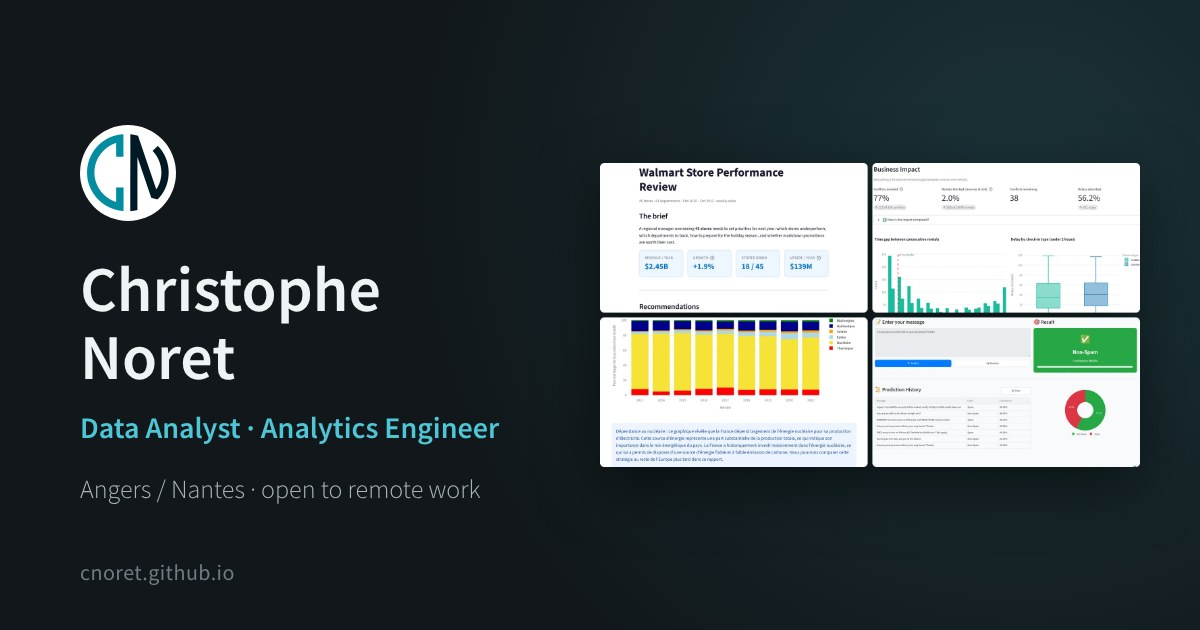
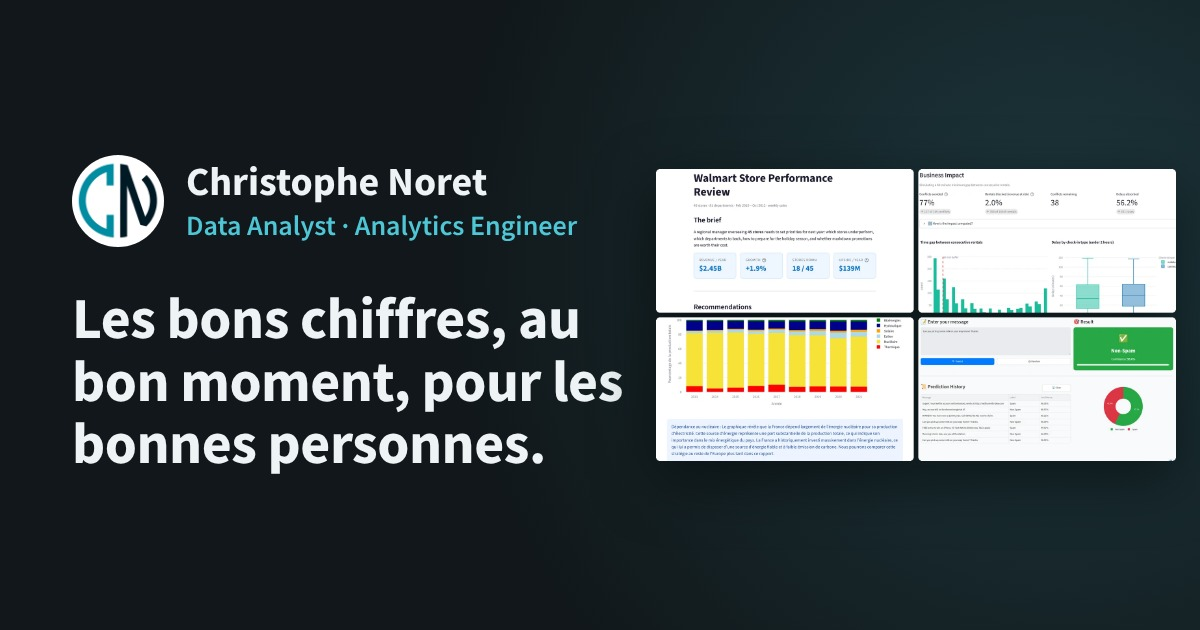
Legible French social preview for LinkedIn
- New 1200x630 card: name and role on one line, headline as the main message
  in large type so it survives LinkedIn downscaling and compression
- French share description and image alt text, og:locale fr_FR (en_US alternate)

Changed region(s): [[0.0617, 0.181, 0.9867, 0.7841], [0.0617, 0.9048, 0.185, 0.9349]]

diff --git a/index.html b/index.html
@@ -12,15 +12,17 @@
 		<meta name="description" data-i18n-content="meta.description" content="Christophe Noret, Data Analyst and Analytics Engineer based in Angers / Nantes, France. End-to-end data projects: KPIs, forecasting, dashboards." />
 		<!-- Open Graph / social previews -->
 		<meta property="og:type" content="website" />
+		<meta property="og:locale" content="fr_FR" />
+		<meta property="og:locale:alternate" content="en_US" />
 		<meta property="og:url" content="https://cnoret.github.io/" />
 		<meta property="og:title" content="Christophe Noret | Data Analyst · Analytics Engineer" />
-		<meta property="og:description" content="The right numbers, at the right time, for the right people. Data Analyst &amp; Analytics Engineer in Angers / Nantes: 4 projects with live demos." />
-		<meta property="og:image" content="https://cnoret.github.io/images/og-card.jpg?v=5" />
+		<meta property="og:description" content="Les bons chiffres, au bon moment, pour les bonnes personnes. Data Analyst &amp; Analytics Engineer à Angers / Nantes : 4 projets avec démos en ligne." />
+		<meta property="og:image" content="https://cnoret.github.io/images/og-card.jpg?v=6" />
 		<meta property="og:image:width" content="1200" />
 		<meta property="og:image:height" content="630" />
-		<meta property="og:image:alt" content="Christophe Noret, Data Analyst and Analytics Engineer, with four project dashboards" />
+		<meta property="og:image:alt" content="Christophe Noret, Data Analyst et Analytics Engineer : « Les bons chiffres, au bon moment, pour les bonnes personnes. »" />
 		<meta name="twitter:card" content="summary_large_image" />
-		<meta name="twitter:image" content="https://cnoret.github.io/images/og-card.jpg?v=5" />
+		<meta name="twitter:image" content="https://cnoret.github.io/images/og-card.jpg?v=6" />
 		<link rel="canonical" href="https://cnoret.github.io/" />
 		<script type="application/ld+json">
 		{
